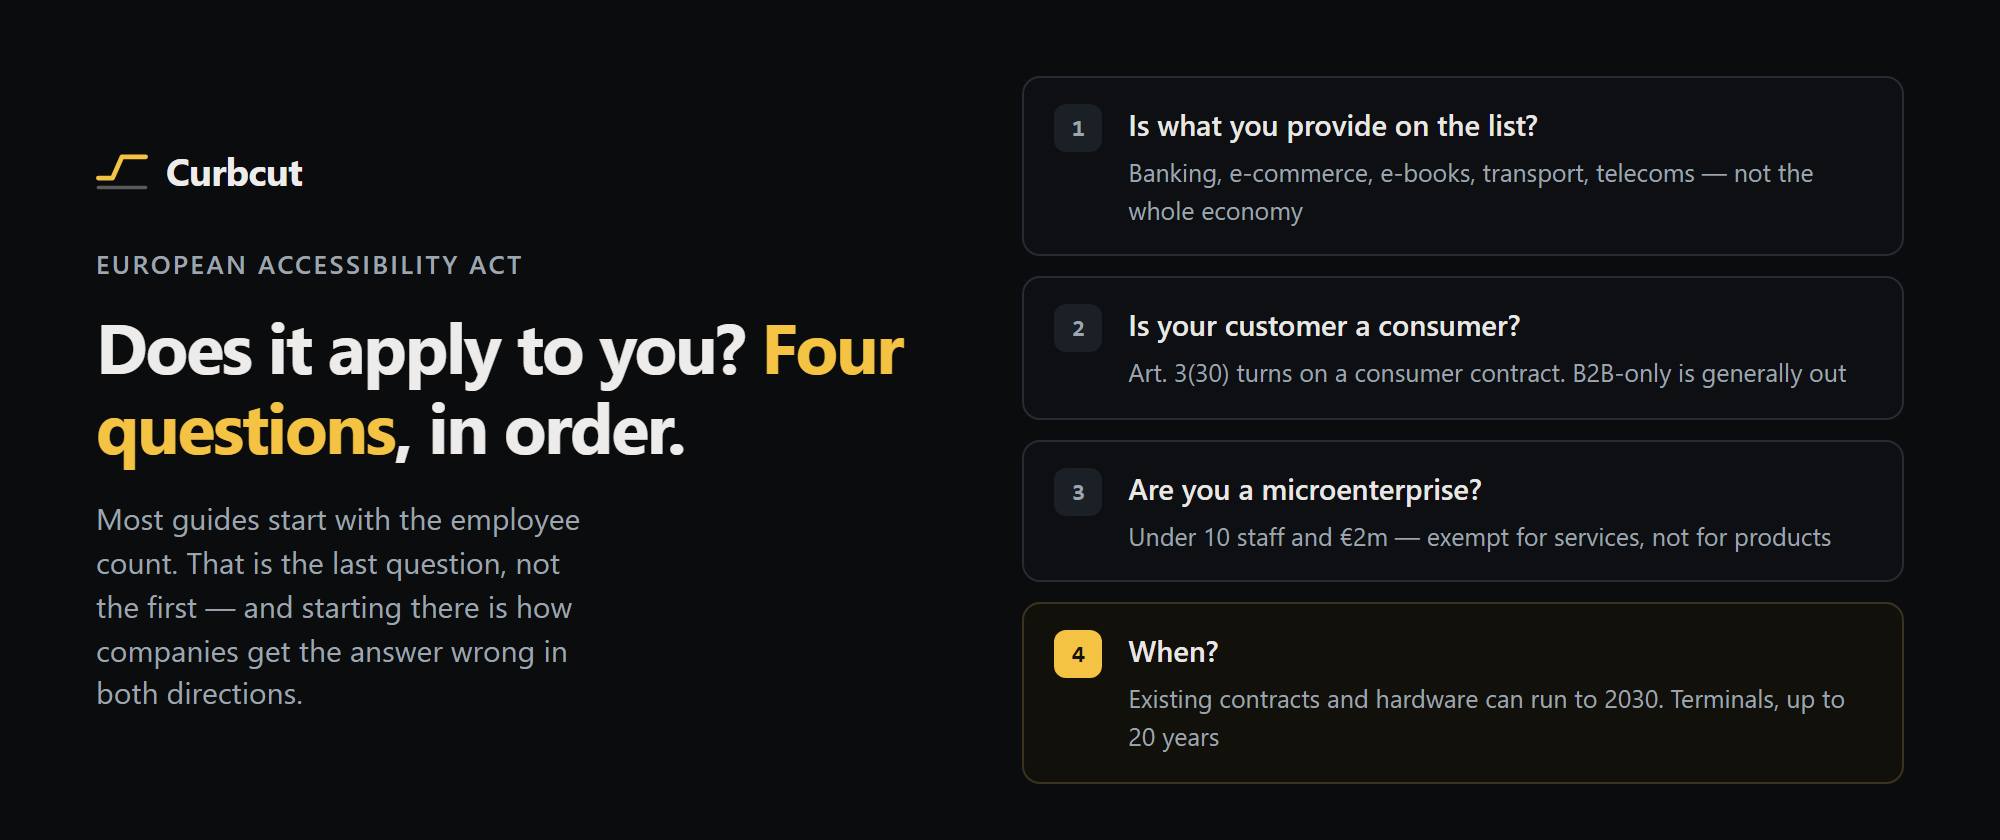
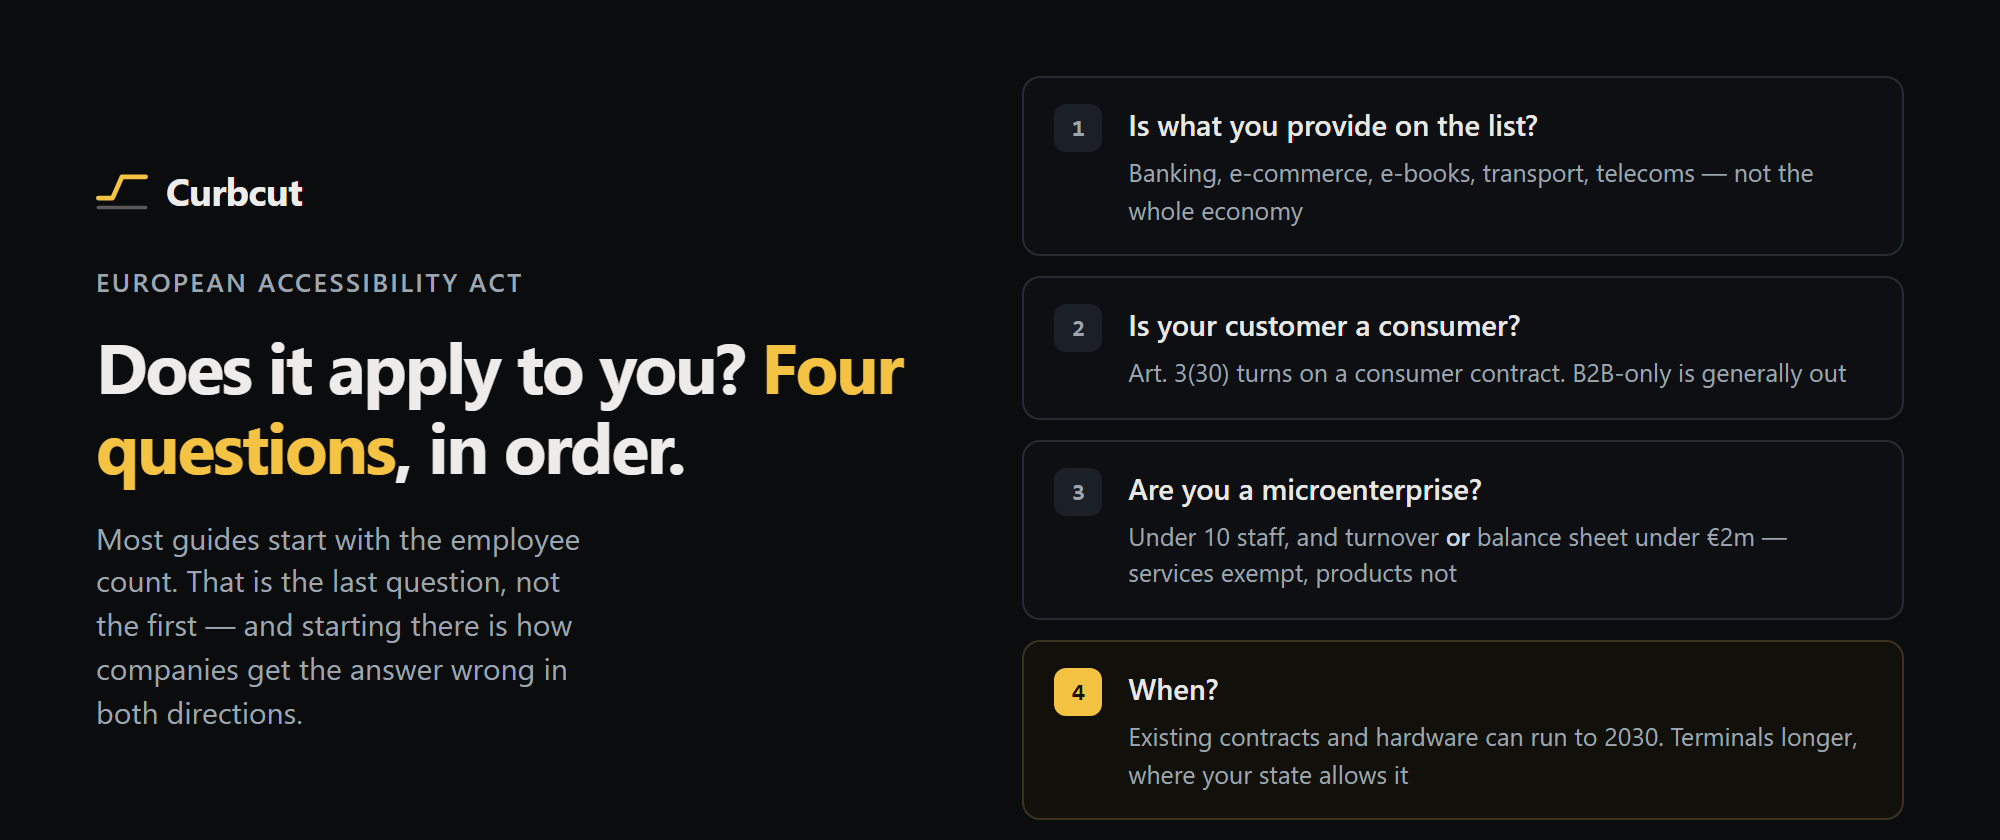
The enforcement section named the wrong court and stopped a year short
Checking the legal claims against the directive left the factual ones in "4.
When?" unchecked, and they were the older half of the article.

"The first EAA cases reached a French commercial court" is wrong. Carrefour was
the tribunal judiciaire de Caen, on 4 June 2026, six months to fix the site and
app with a penalty per day over. Judicial court, not commercial. "Formal notices
within days" was nine days: 7 July 2025, apiDV and Droit Pluriel, against
Auchan, Carrefour, E.Leclerc and Picard.

The larger problem was an omission. On 6 May 2026 the tribunal judiciaire de
Lille held Auchan E-Commerce subject to no accessibility obligation at all,
reading the duty through Article 47 of the French law of 11 February 2005 and
its EUR 250 million turnover threshold rather than the directive's. It accepted
the site was inaccessible and dismissed anyway. apiDV and Droit Pluriel have
appealed to the cour d'appel de Douai.

An article called "Does the EAA apply to you?" that answers with the directive's
thresholds, published while a first-instance court has just answered with a
figure two orders of magnitude larger, is not finished. It now carries the case
and says plainly that it is unsettled and on appeal.

Cover corrected to match: the microenterprise card said "under 10 staff and EUR
2m", the terminals card stated a member state option as a rule. Added
scripts/render-cover.mjs, since covers were made by hand and no longer can be.

diff --git a/site/blog/does-the-eaa-apply-to-me.html b/site/blog/does-the-eaa-apply-to-me.html
@@ -134,12 +134,35 @@ misleading claims. &ldquo;We are a microenterprise&rdquo; is an answer to one qu
 EAA&rsquo;s service obligations. Building an accessible service is still worth doing.
 It is just not, in your case, a legal requirement under this directive.</p>
 
+<h3>The threshold you are actually measured against is national</h3>
+
+<p>On <strong>6 May 2026</strong> the tribunal judiciaire de Lille held that Auchan E-Commerce was
+under no accessibility obligation at all &mdash; not because it is a microenterprise,
+which it plainly is not, but because the judge read the obligation through Article
+47 of the French law of 11 February 2005, which carries a <strong>&euro;250 million</strong> turnover
+threshold, rather than through the directive&rsquo;s figures. The court accepted that
+the site was not accessible and dismissed the claim anyway.</p>
+
+<p>apiDV and Droit Pluriel, who brought it, have appealed to the cour d&rsquo;appel de
+Douai and call the reading a serious error of European law.</p>
+
+<p>File that under <em>unsettled</em>, not under good news. It is a first-instance decision,
+it is on appeal, and it binds one member state. What it demonstrates is the line
+at the bottom of this article, which is easy to read as a formality: the directive
+is not what binds you. Your country&rsquo;s transposition of it is, and the two can
+diverge by two orders of magnitude.</p>
+
 <h2>4. When?</h2>
 
-<p>The deadline was <strong>28 June 2025</strong>, and enforcement started immediately. French
-disability organisations issued formal notices to major retailers within days,
-Sweden opened market surveillance that October, and the first EAA cases reached a
-French commercial court in November.</p>
+<p>The deadline was <strong>28 June 2025</strong>, and enforcement started immediately. Nine days
+later the disability organisations apiDV and Droit Pluriel sent formal notices to
+Auchan, Carrefour, E.Leclerc and Picard over inaccessible online shopping. Sweden&rsquo;s
+telecoms regulator opened the first market surveillance that October. The French
+cases reached court in November.</p>
+
+<p>The first decision came on <strong>4 June 2026</strong>, when the tribunal judiciaire de Caen
+gave Carrefour six months to make its website and mobile app accessible, with a
+penalty accruing for every day it overshoots.</p>
 
 <p>But the directive contains transitional provisions that change the answer for a
 lot of businesses, and they are barely discussed.</p>
